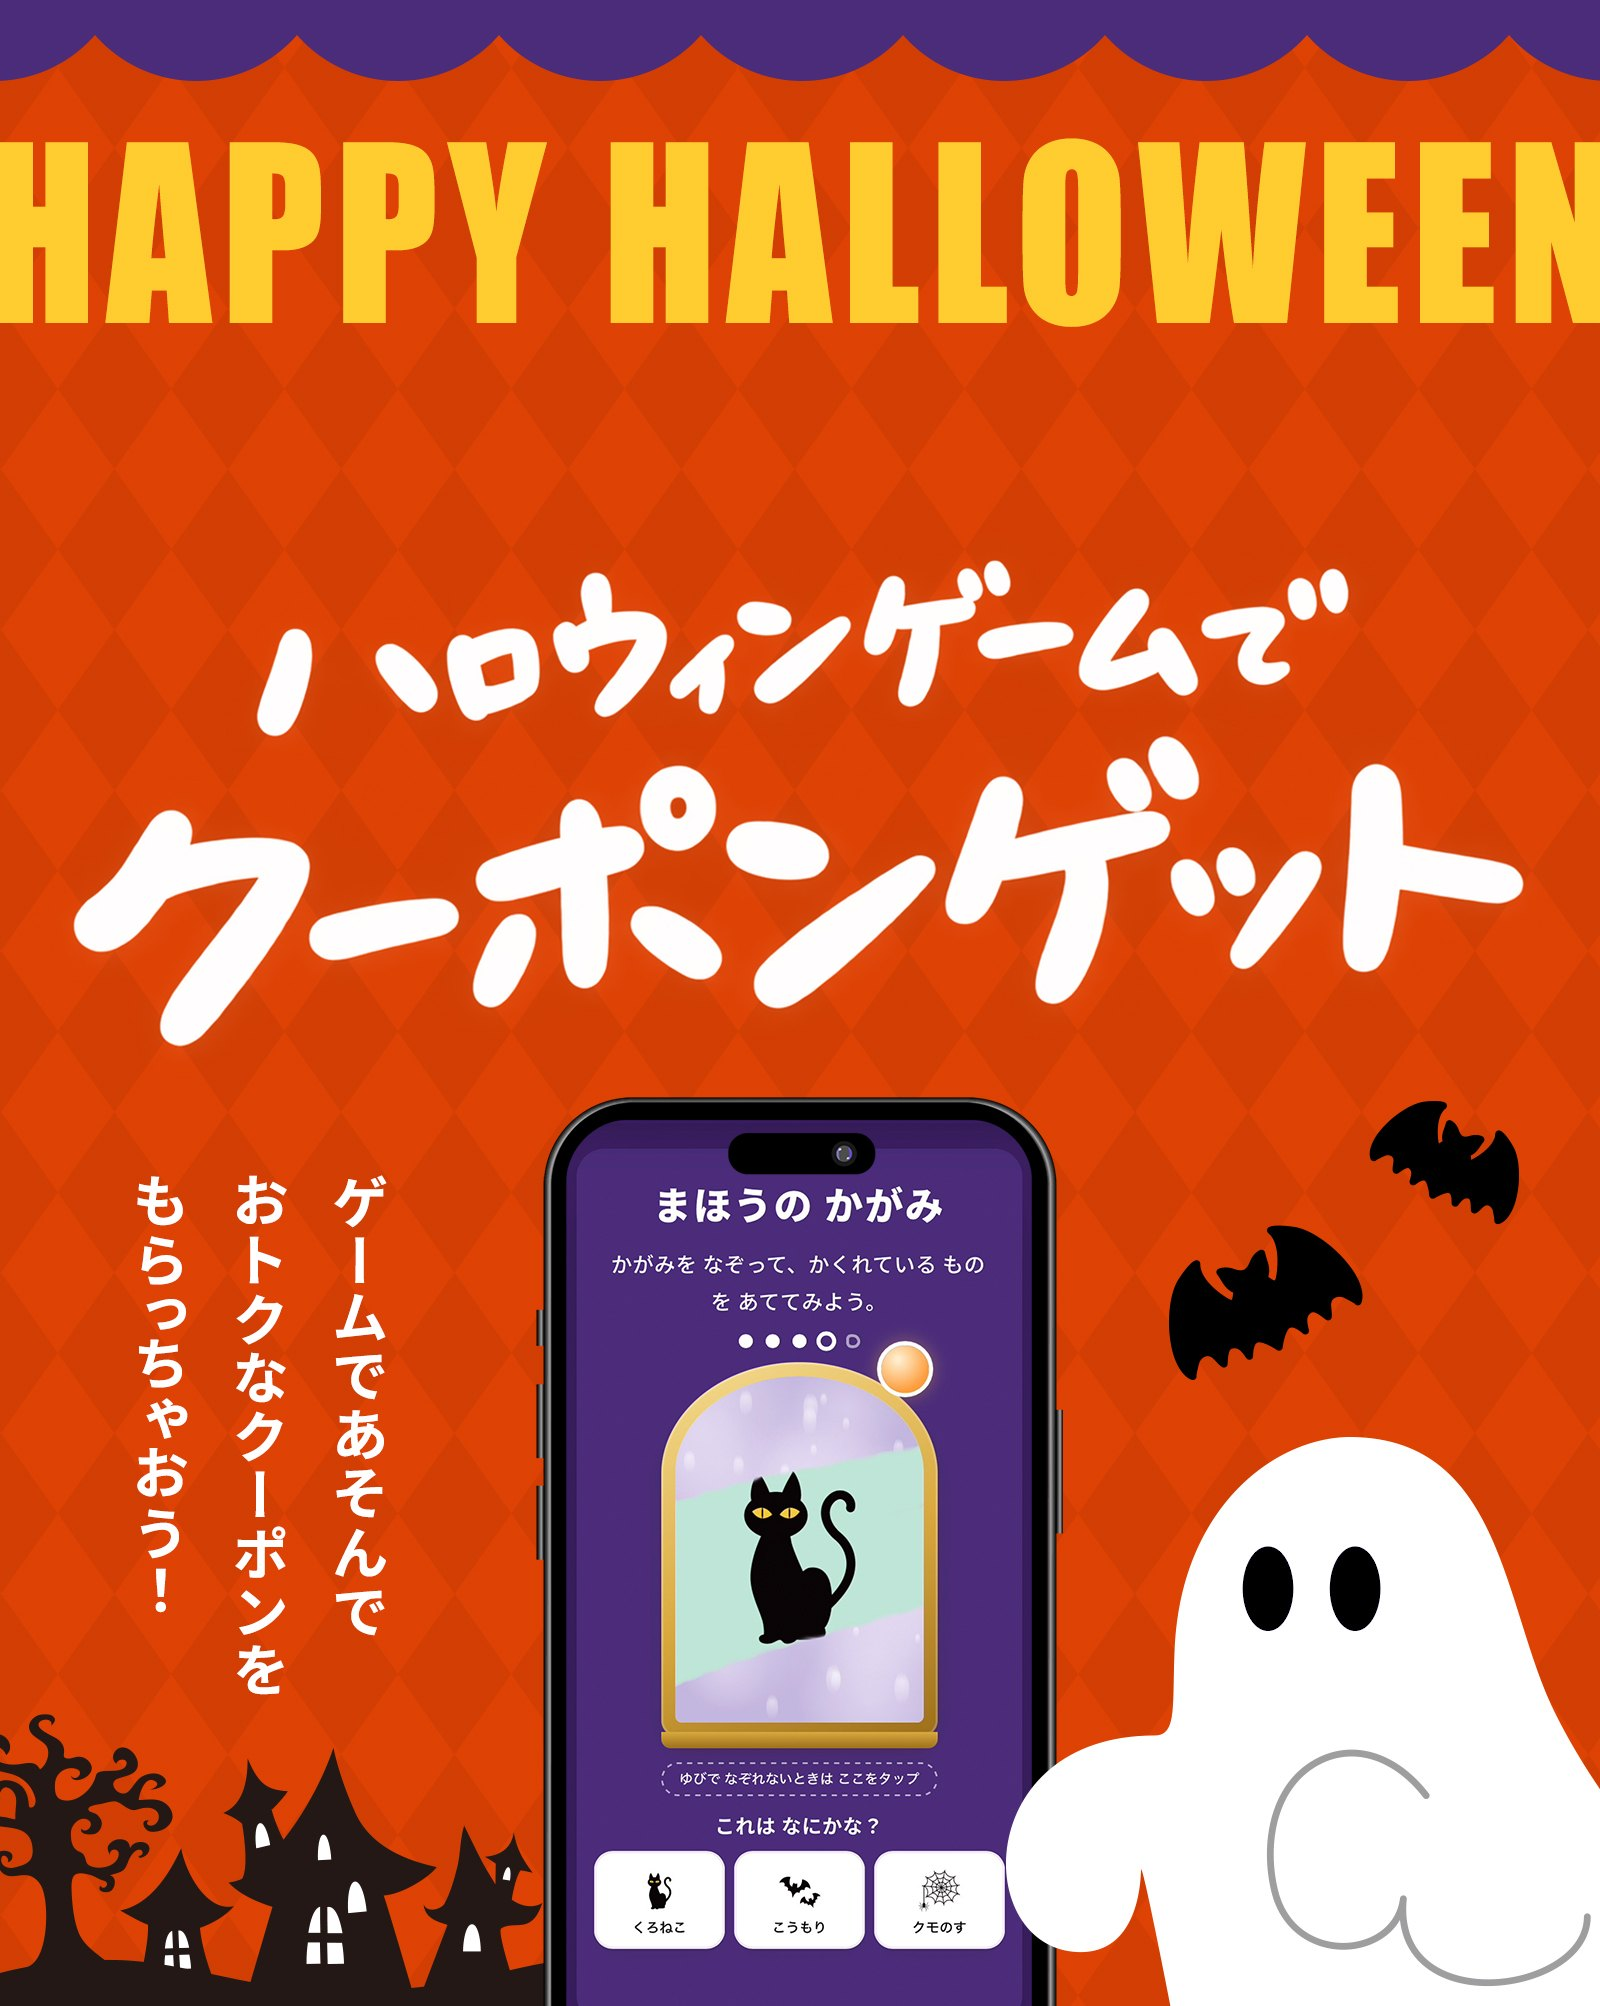
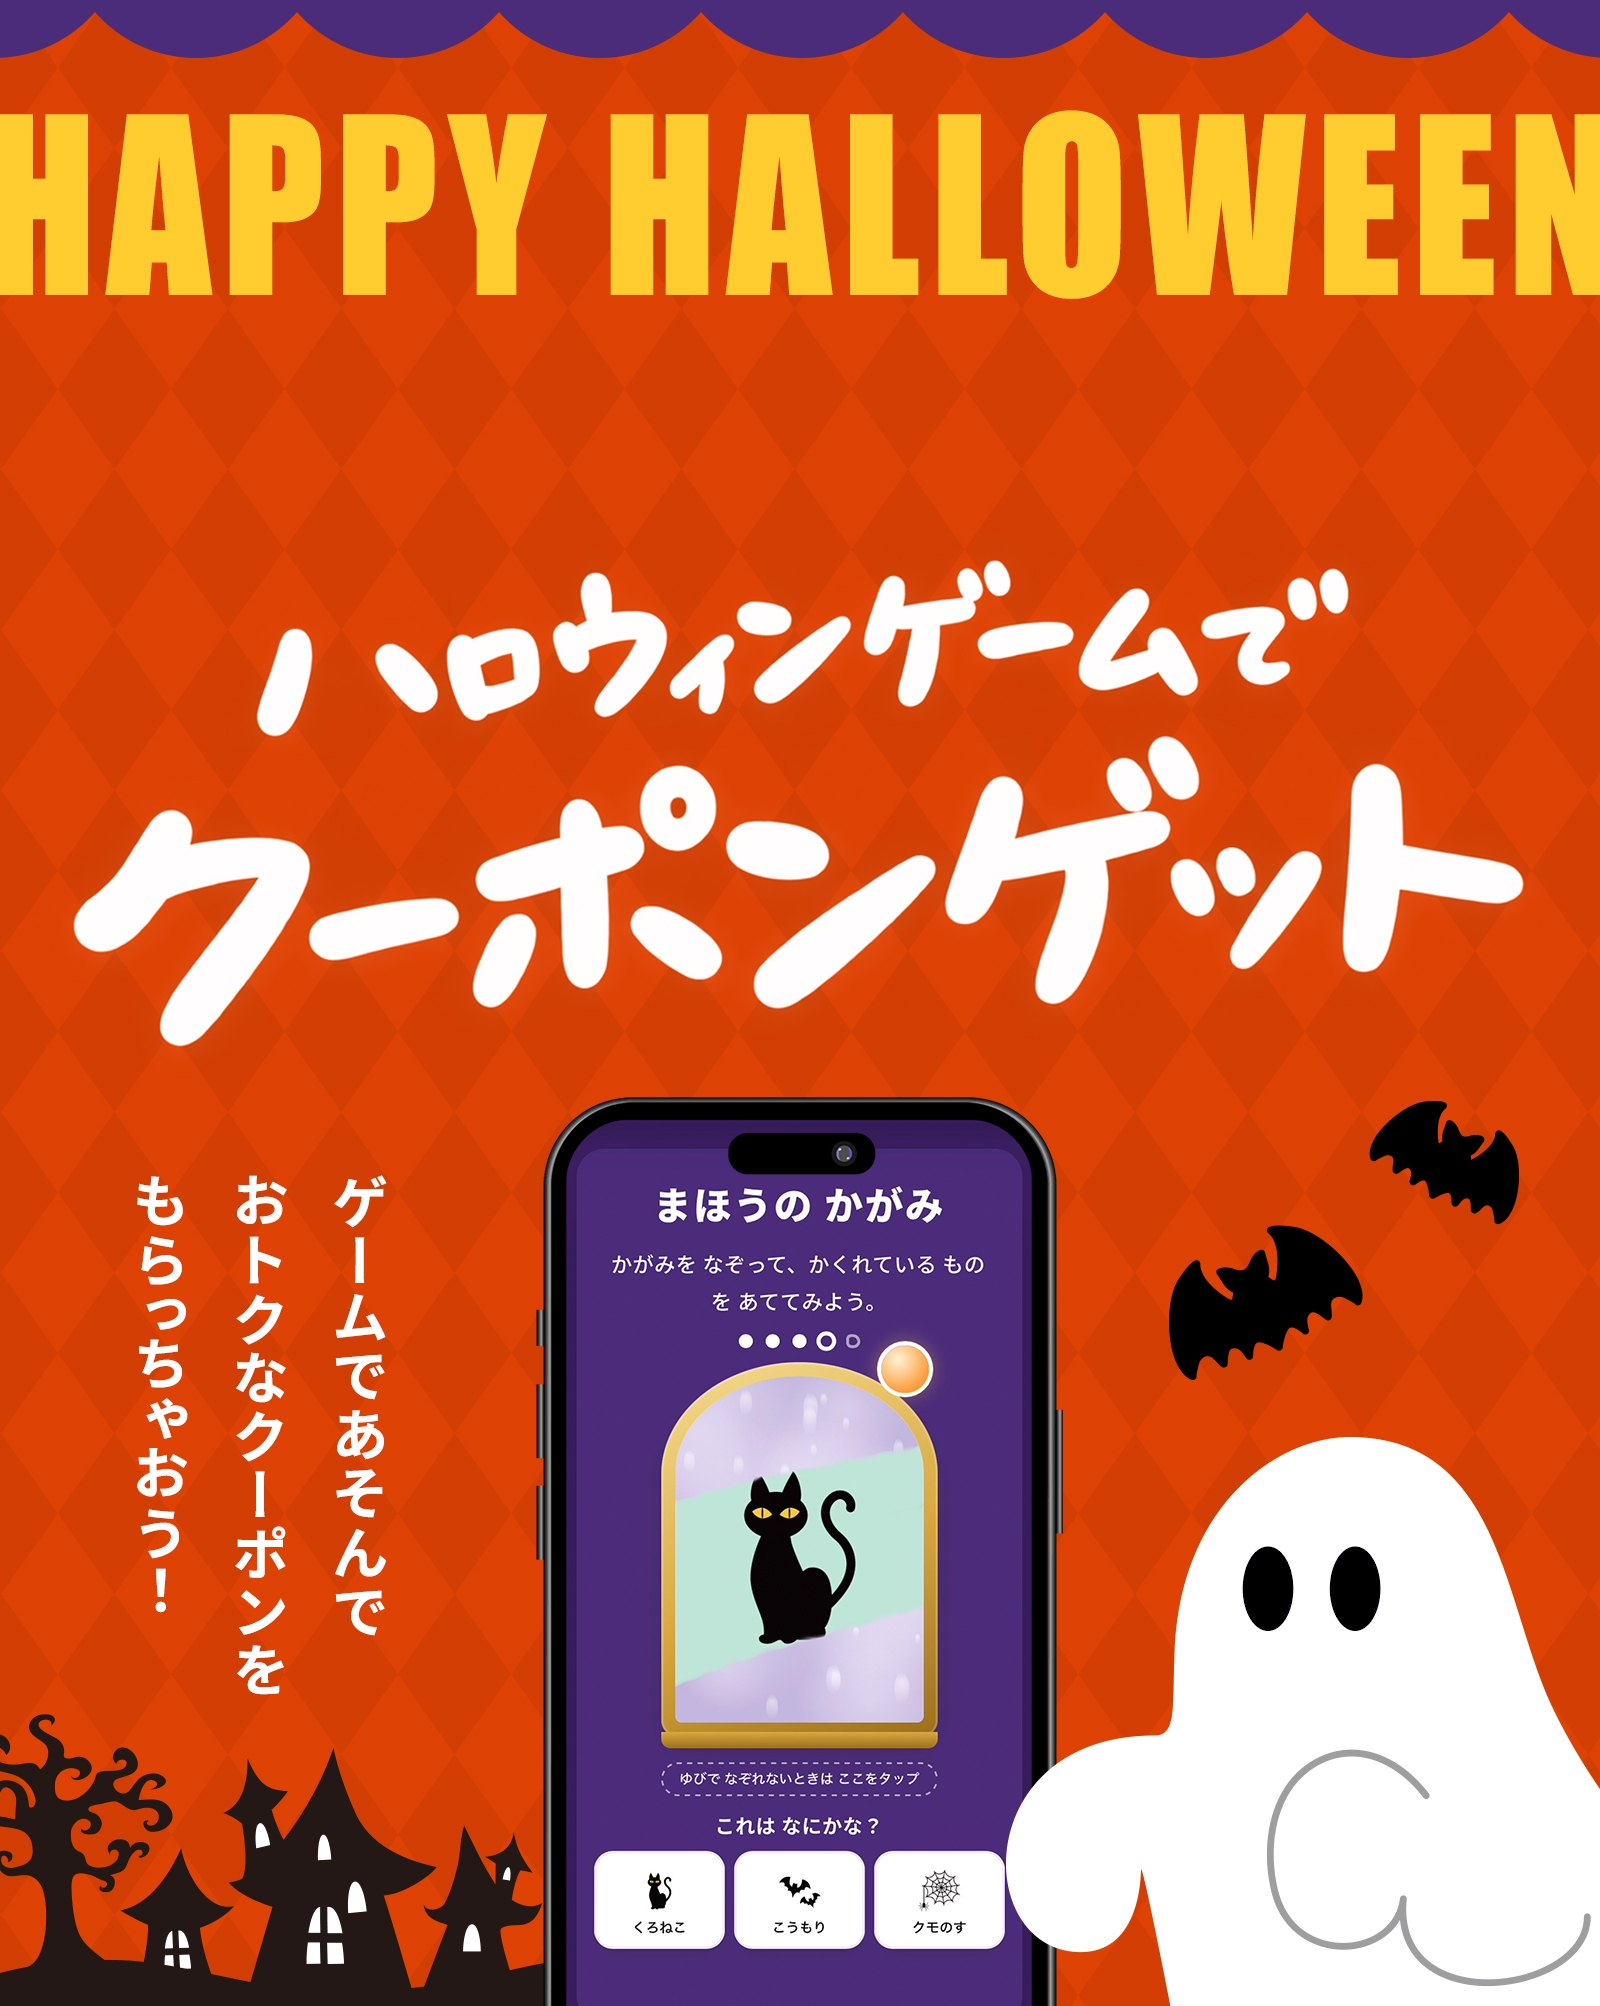
ハロウィンLP: 看板を差し替え、流れる商品を少し上に

Changed region(s): [[0.0, 0.0, 1.0, 0.1854]]

diff --git a/index-halloween.html b/index-halloween.html
@@ -95,7 +95,7 @@
   .fv-marquee{
     position:absolute;
     left:0; right:0;
-    top:8%;
+    top:5.5%;
     height:19.5%;
     overflow:hidden;
     pointer-events:none;
@@ -482,7 +482,7 @@
 <section class="fv">
   <h1 class="sr-only">ハロウィンゲームでクーポンゲット</h1>
   <div class="fv-visual">
-    <img class="fv-banner" src="fv-halloween.jpg?v=3" width="1600" height="2006" alt="HAPPY HALLOWEEN ハロウィンゲームでクーポンゲット ゲームであそんでおトクなクーポンをもらっちゃおう！" fetchpriority="high">
+    <img class="fv-banner" src="fv-halloween.jpg?v=4" width="1600" height="2006" alt="HAPPY HALLOWEEN ハロウィンゲームでクーポンゲット ゲームであそんでおトクなクーポンをもらっちゃおう！" fetchpriority="high">
     <div class="fv-marquee" aria-hidden="true">
       <ul class="fv-track"><li style="--h:100%"><img src="fv-items/bgoods-00461.webp?v=2" alt="" loading="eager"></li><li style="--h:80%;--hs:92%"><img src="fv-items/toy-00043.webp?v=2" alt="" loading="eager"></li><li style="--h:72%;--hs:86%"><img src="fv-items/bgoods-00127.webp?v=2" alt="" loading="eager"></li><li style="--h:76%;--hs:90%"><img src="fv-items/bgoods-00120.webp?v=2" alt="" loading="eager"></li><li style="--h:62%;--hs:76%"><img src="fv-items/goods-961.webp?v=2" alt="" loading="eager"></li><li style="--h:60%;--hs:74%"><img src="fv-items/bgoods-00338.webp?v=2" alt="" loading="eager"></li><li style="--h:74%;--hs:88%"><img src="fv-items/bgoods-00425.webp?v=2" alt="" loading="eager"></li><li style="--h:100%"><img src="fv-items/bgoods-00461.webp?v=2" alt="" loading="eager"></li><li style="--h:80%;--hs:92%"><img src="fv-items/toy-00043.webp?v=2" alt="" loading="eager"></li><li style="--h:72%;--hs:86%"><img src="fv-items/bgoods-00127.webp?v=2" alt="" loading="eager"></li><li style="--h:76%;--hs:90%"><img src="fv-items/bgoods-00120.webp?v=2" alt="" loading="eager"></li><li style="--h:62%;--hs:76%"><img src="fv-items/goods-961.webp?v=2" alt="" loading="eager"></li><li style="--h:60%;--hs:74%"><img src="fv-items/bgoods-00338.webp?v=2" alt="" loading="eager"></li><li style="--h:74%;--hs:88%"><img src="fv-items/bgoods-00425.webp?v=2" alt="" loading="eager"></li></ul>
     </div>

diff --git a/CLAUDE.md b/CLAUDE.md
@@ -21,8 +21,8 @@
 4. 結果画面のクーポン額（1等100円/2等55円/3等39円）は `COUPON_TIERS` の `amount`。確率は `pickCouponOutcome()`（3%/60%/37%）。
 
 ## ハロウィンLPのFV（看板）
-- ページ全体の最大幅は800px（`.wrap`）。`fv-halloween.jpg`（1600×2006、スマホ・PC共通）を全幅表示（PCでも余白なし）。上に `fv-items/*.webp`（商品の切り抜き）が横に流れる（`.fv-marquee` / `.fv-track`、56秒ループ）。
-- 流れる帯は画像の高さ8%〜27.5%。「HAPPY HALLOWEEN」には重ねてOK、下のタイトル（28.4%〜）には重ねない（ユーザー指定）。
+- ページ全体の最大幅は800px（`.wrap`）。`fv-halloween.jpg`（1600×2006、スマホ・PC共通）を全幅表示（PCでも余白なし）。上に `fv-items/*.webp`（商品の切り抜き）が横に流れる（`.fv-marquee` / `.fv-track`、PC56秒・スマホ30秒ループ（どちらも約25px/秒））。
+- 流れる帯は画像の高さ5.5%〜25%。「HAPPY HALLOWEEN」には重ねてOK、下のタイトル（28.4%〜）には重ねない（ユーザー指定）。
 - 切り抜きはユーザー提供PNGのみ使う（ユーザー指定）：00461/toy-00043/00127/00120/goods-961/00338/00425。商品ごとの大きさは各 `<li style="--h:…%">` で調整。
 
 - ヘッダー背景は #4B2C7A（看板上部の紫と同色）、ロゴは白抜き版 `babuuu-logo-white.png`（元ロゴは白背景付きのためフィルター不可）。
